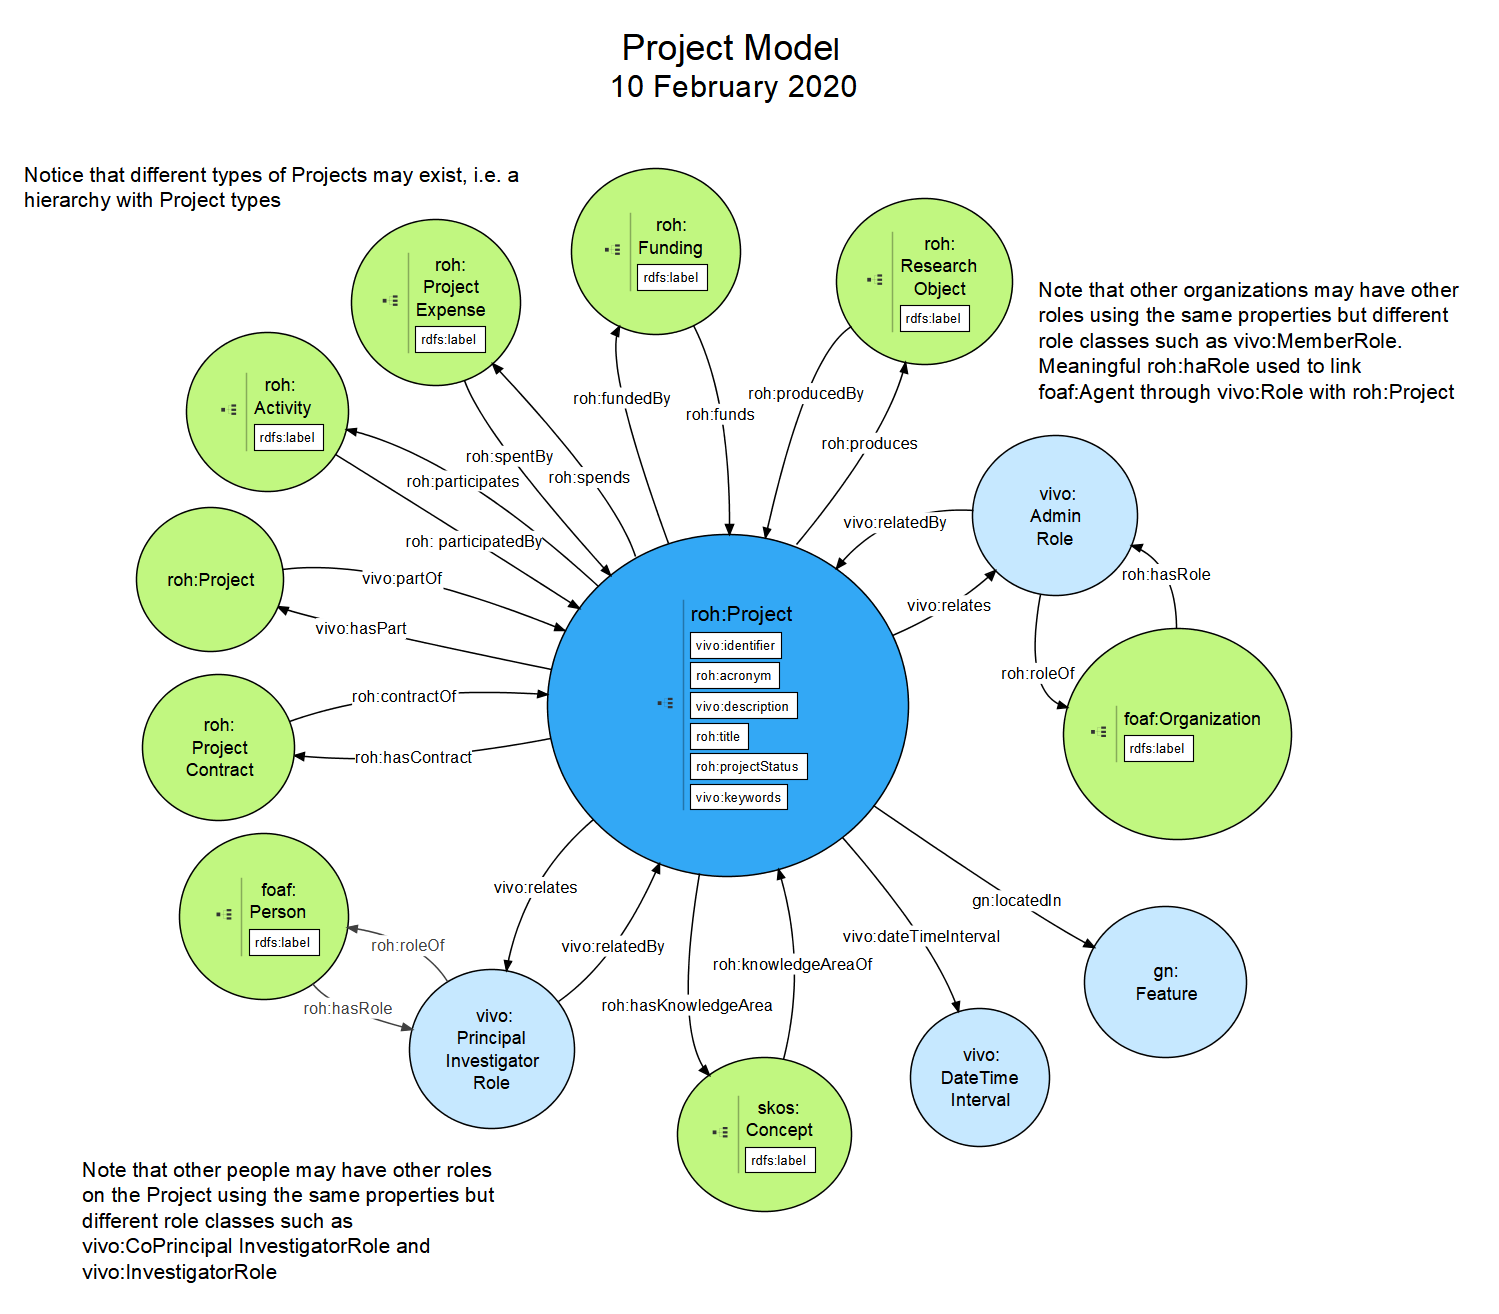
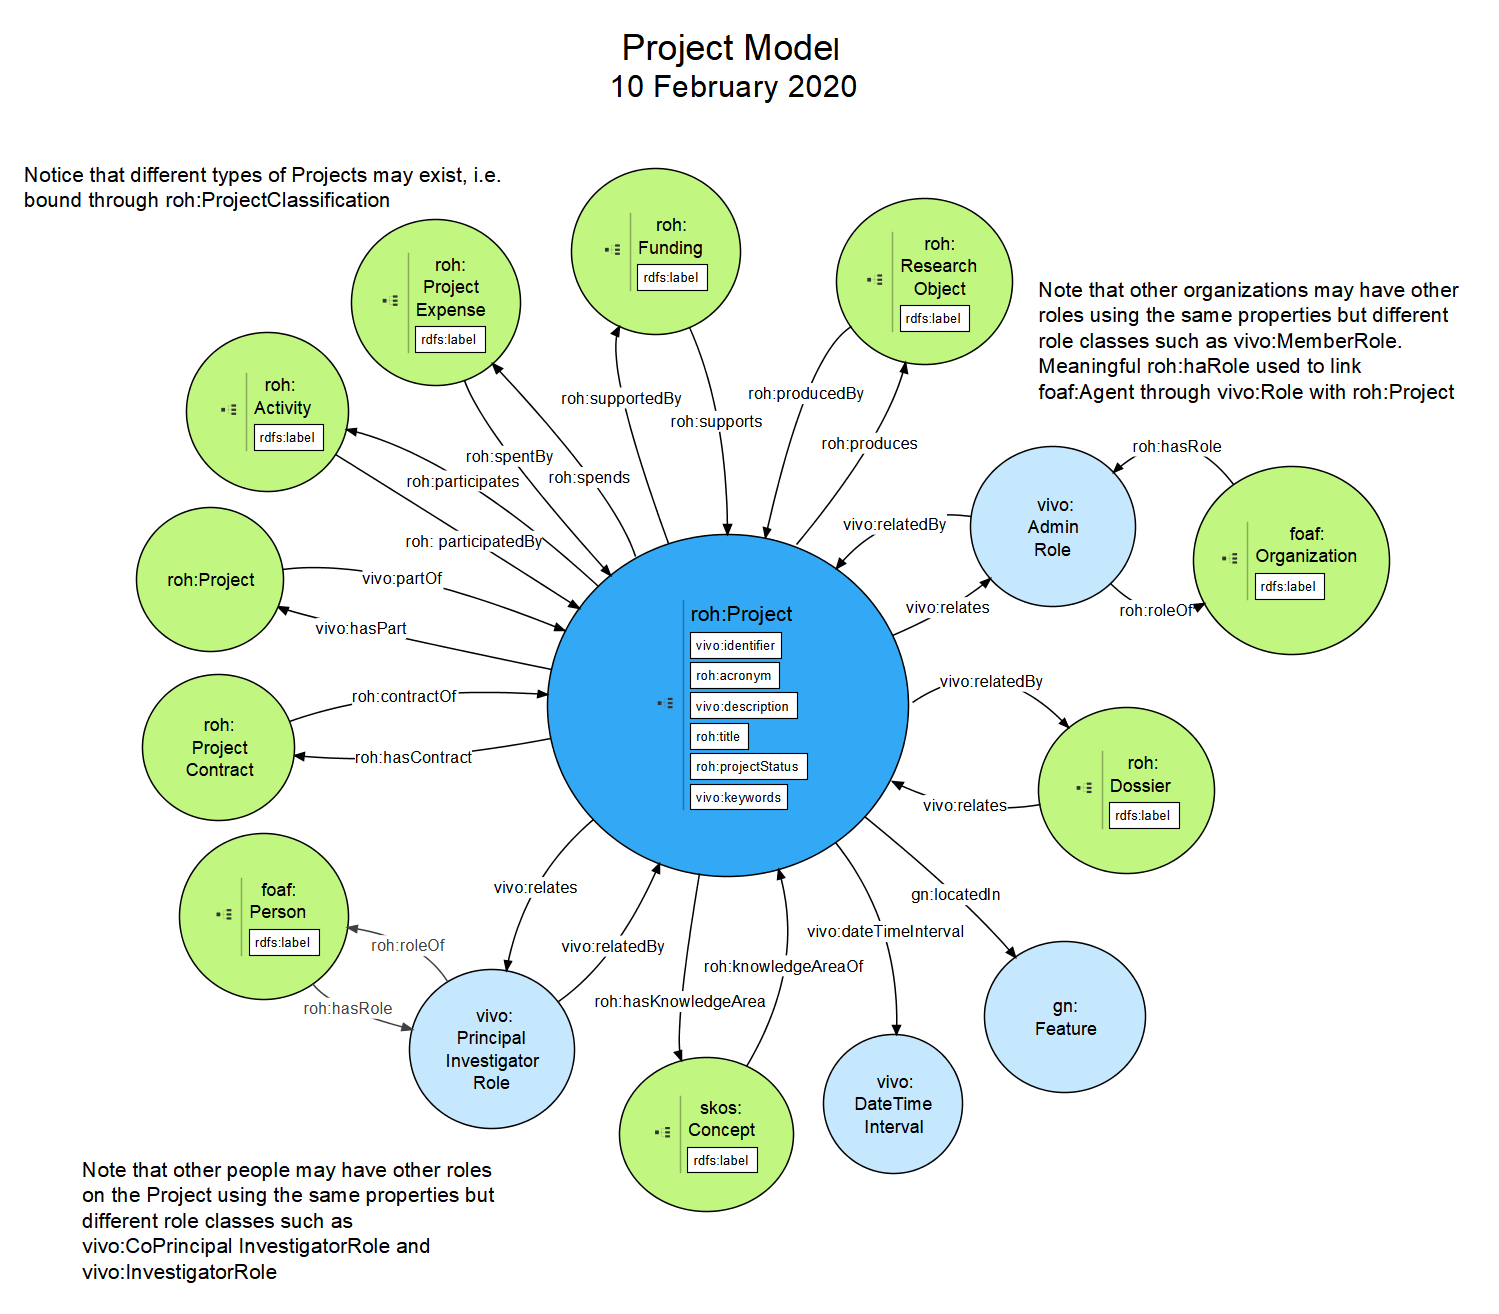
updated documentation vivo:Project

diff --git a/bak/README.md b/bak/README.md
@@ -62,48 +62,42 @@ Hércules.
 **Entity Project**
 ------------------
 
-The main ROH entity is vivo:Project (see Figura 2), a new entity defined
+The main ROH entity is roh:Project (see Figura 2), a new entity defined
 within ROH. In ROH, a Project models a collaborative activity in
-business and science that often involves research or design and is
+business and science that often involves research or design, and is
 carefully planned to achieve a particular goal. Its configuration is
 inspired by the swrc:Project and takes into account the data properties
-of the cerif:Project and vivo:Project. It comprises all those properties
-and adds some new ones, for example, vivo:ProjectStatus, roh:modality or
-roh:title.
+of the cerif:Project. It comprises all those properties and adds some
+new ones, for example, roh:projectStatus or roh:title.
 
-It includes the Data Properties vivo:identifier, vivo:abbreviation,
-vivo:description, roh:title, vivo:ProjectStatus, vivo:freeTextKeyword,
-roh:modality, roh:foreseenJustificationDate and
-roh:needsEthicalValidation .
+It includes the Data Properties vivo:identifier, roh:acronym,
+vivo:description, roh:title, roh:projectStatus and vivo:keywords.
 
-An vivo:Project includes a property roh:hasKnowledgeArea with allows to
-associate a project with different instances of knowledge areas, e.g.
-instances of roh:UNESCOKnowledgeArea or rohes:FECYTKnowledgeArea concept
-hierarchies, but importantly allows a project also to be classified
-according the hierarchy defined under roh:ProjectClassification concept
-hierarchy, e.g. roh:Horizon2020.
+An roh:Project includes several sub-classes roh:PrivateProject and
+roh:PublicFundingProject. The first subclass includes the subclasses
+roh:Agreement whilst the latter one defines as its subclasses:
+roh:Bidding, roh:EuropeanProject, roh:NationalProject or
+roh:RegionalProject.
 
-Besides, an instance of a vivo:Project is associated to the following
+Besides, an instance of a roh:Project is associated to the following
 entities through object properties:
 
 -   foaf:Organización, where different organizations may play different
-    obo-bfo:Roles in a project, e.g. vivo:MemberRole or
+    obo:Roles in a project, e.g. vivo:MemberRole or
     vivo:AdministratorRole.
 
--   foaf:Person, where an person may play different obo-bfo:Roles, e.g.
+-   foaf:Person, where an person may play different obo:Roles, e.g.
     vivo:PrincipalInvestigatorRole or vivo:ResearcherRole,
 
 -   roh:ResearchObject, where a project roh:produces several
     roh:ResearchObject, where some results of a project might be for
-    example of types bibo:Journal, obo-iao:JournalArticle, or
-    roh:PhDThesis.
+    example of types bibo:Journal, obo:JournalArticle, or roh:PhDThesis.
 
--   roh:Funding roh:supports a vivo:Project, where funding roh:hasPart
-    roh:FundingAmount. A roh:FundingAmount roh:grants foaf:Organization
-    and describes the details about the funding associated to a project,
-    in what period and what organization it funds. A roh:FundingSource
-    is roh:promotedBy a vivo:FundingOrganization and roh:funds a
-    roh:FundingProgram.
+-   roh:FundingOrganization sponsors (roh:funds) a roh:Funding. A
+    funding roh:hasPart roh:FundingAmount. A roh:FundingAmount
+    roh:grants foaf:Organization it describes the details about the
+    funding associated to a project. A roh:Funding roh:supports a
+    roh:Project.
 
 -   roh:Expense is roh:spentBy a project, details allows to associate a
     project with its expenses.
@@ -112,33 +106,25 @@ entities through object properties:
     activities a project participates in.
 
 -   skos:Concept is linked through roh:knowledgeAreaOf to a project,
-    indicating the topics/concepts a project deals with and allowing it
-    to be classified under different taxonomies, e.g.
-    roh:ProjectClassification.
+    indicating the topics/concepts a project deals with.
 
--   vivo:ProjectContract subtype of vivo:Contract, a project may be
+-   roh:ProjectContract subtype of vivo:Contract, a project may be
     associated to a contract through relationship roh:hasContract.
 
 -   roh:Justification through relationship vivo:relates binds
-    justifications with a vivo:Project.
+    justifications with a roh:Project.
 
--   roh:Dossier through relationship vivo:relates binds a set of
-    documents, including the proposal, evaluation document, reports and
-    so on with a vivo:Project. A dossier is an administrative file
-    collection in which all assets related to a Project are stored,
-    including the Research Proposal, approval documents, viability plans
-    and so on associated to a project are stored.
+-   roh:File through relationship vivo:relates binds administrative file
+    with a roh:Project. An administrative file a collection in which all
+    assets related to a Project are stored, including the Research
+    Proposal, approval documents, viability plans and so on associated
+    to a project are stored.
 
-Notice that a vivo:Project may also be part (vivo:hasPart) of another
+Notice that a roh:Project may also be part (vivo:hasPart) of another
 project, e.g. child of a parent project. Besides, every instance of a
-vivo:Project is time bound by being associated with an instance of
+roh:Project is time bound by being associated with an instance of
 vivo:DateTimeInterval and geographically bound to an instance of
 gn:Feature (through relationship (gn:locatedIn).
-
-The following table shows the object and data properties associated to
-vivo:Project:
-
-![](.//media/1.roh-project-table.png)
 
 ![](.//media/1.roh-project.png)
 
